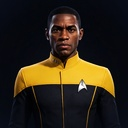
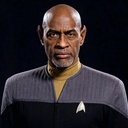
v000.6.040: Tuvok and Chakotay face redo (Tim Russ / Robert Beltran likeness)

diff --git a/index.html b/index.html
@@ -983,7 +983,7 @@ label{font-size:13px;color:var(--dim);letter-spacing:1px;text-transform:uppercas
    chokepoints: portraitSrc, crewPoolUrls, crewPortraitFor, shipPic,
    compArtFor, stationPic, stationMapIcon, shuttlePic. Idempotent: a URL
    already carrying the current bust marker is returned untouched. ---- */
-const ART_BUST='v000.6.039';
+const ART_BUST='v000.6.040';
 function bustUrl(u){if(!u||u.indexOf('data:')===0||u.indexOf('v='+ART_BUST)>=0)return u;return u+(u.indexOf('?')>=0?'&':'?')+'v='+ART_BUST;}
 function $(id){return document.getElementById(id);}
 function rnd(a,b){return a+Math.random()*(b-a);}
@@ -16629,7 +16629,7 @@ window.onload=function(){
 <aside id="menuDrawer">
   <div id="drawerHead"><h2>Menu</h2><button id="drawerClose" onclick="closeTabMenu()" aria-label="Close menu">&times;</button></div>
   <div id="menuList"></div>
-  <div style="text-align:center;color:#5a6b7d;font-size:11px;padding:14px 0 8px;opacity:.7;">v000.6.039 — The Stylized Fleet</div>
+  <div style="text-align:center;color:#5a6b7d;font-size:11px;padding:14px 0 8px;opacity:.7;">v000.6.040 — The Stylized Fleet</div>
   <div style="text-align:center;color:#5a6b7d;font-size:11px;padding:0 0 10px;opacity:.7;">Ship &amp; shuttlecraft profile artwork: <a href="https://www.ex-astris-scientia.org/fleet-charts.htm" target="_blank" style="color:#7d92ad;text-decoration:none;">Ex Astris Scientia</a></div>
 </aside>
 <script>if("serviceWorker" in navigator){navigator.serviceWorker.register("sw.js").then(function(r){r.addEventListener("updatefound",function(){var w=r.installing;w.addEventListener("statechange",function(){if(w.state==="activated"&&navigator.serviceWorker.controller){try{showUpdateBanner();}catch(e){}}});});});}</script>

diff --git a/sw.js b/sw.js
@@ -1,4 +1,4 @@
-const C = 'stfc-v000.6.039';
+const C = 'stfc-v000.6.040';
 self.addEventListener('install', e => {
   e.waitUntil(caches.open(C).then(c => c.addAll(['./', 'index.html', 'manifest.json'])).then(() => self.skipWaiting()));
 });
